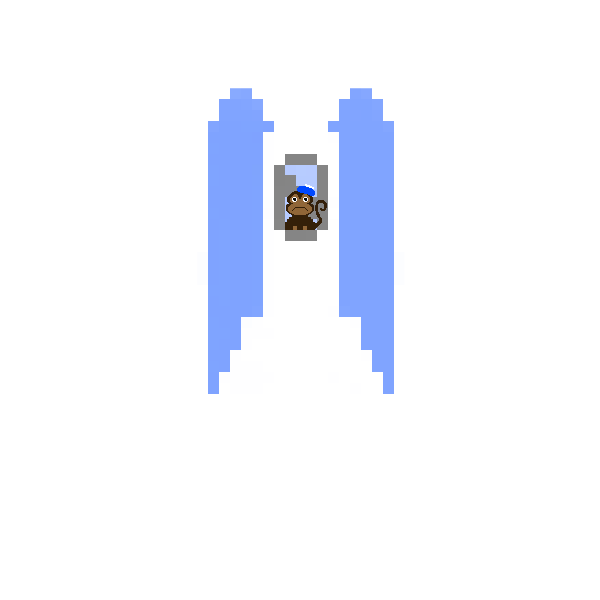
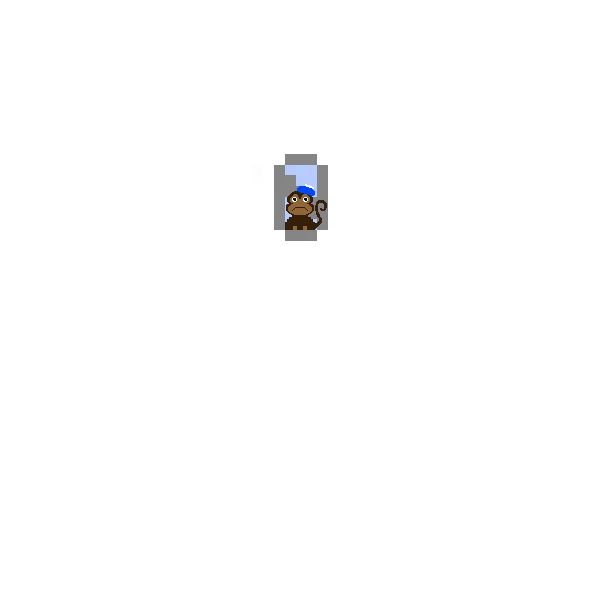
moug us

Changed region(s): [[0.33, 0.12, 0.45, 0.66], [0.54, 0.15, 0.66, 0.66]]

diff --git a/hangman.js b/hangman.js
@@ -92,113 +92,92 @@ window.onload = function () {
     drawArray[drawMe]();
   }
 
-/*
-  var imgArray = new Array();
-var x=0;
-var livesLost=0;
-
-if (level==1)
-{
-  for (let step =1; step<=14; step++) {
-    imgArray[step-1]=new Image();
-    imgArray[step-1].src='img_'+14-step+'.png'
-  }
-}
-else
-{
-  for (let step=1; step<=10; step++){
-    imgArray[step-1]=new Image();
-    imgArray[step-1].src='m_img_'+10-step+'.png';
-  }
-}
-
- display = function(){
-   context.clearRect(0,0,200,200);
-   imgArray[lives];
-  }
-
-
-
- // Hangman
-canvas =  function(){
-
-  rocketShip = document.getElementById("rocket");
-  context = rocketShip.getContext('2d');
-  context.beginPath();
-  context.strokeStyle = "#fff";
-  context.lineWidth = 2;
-};
-
-draw = function($pathFromx, $pathFromy, $pathTox, $pathToy) {
-
-  context.moveTo($pathFromx, $pathFromy);
-  context.lineTo($pathTox, $pathToy);
-  context.stroke();
-}
-*/
-
-   // Hangman
+   // Rocket Hangman
   canvas =  function(){
 
-    rocketShip = document.getElementById("rocket");
-    context = rocketShip.getContext('2d');
-    context.beginPath();
-    context.strokeStyle = "#fff";
-    context.lineWidth = 2;
+    canvas = document.getElementById("rocket");
+    context = canvas.getContext('2d');
+    image = new Image(600, 600); // Using optional size for image
+    console.log("change request");
+    if(level === 0){
+      imgStr = "img/img_";
+      console.log("no monk");
+    }
+    if(level === 2){
+      imgStr = "img/img_m_";
+    }
   };
 
-    head = function(){
-      rocketShip = document.getElementById("rocket");
-      context = rocketShip.getContext('2d');
-      context.beginPath();
-      context.arc(60, 25, 10, 0, Math.PI*2, true);
-      context.stroke();
-    }
-
-  draw = function($pathFromx, $pathFromy, $pathTox, $pathToy) {
-
-    context.moveTo($pathFromx, $pathFromy);
-    context.lineTo($pathTox, $pathToy);
-    context.stroke();
-}
-
-   frame1 = function() {
-     draw (0, 150, 150, 150);
+   pristene = function() {
+     image.src = imgStr + "0.png";
+     context.drawImage(image, 0, 0);
+     console.log("1");
    };
 
-   frame2 = function() {
-     draw (10, 0, 10, 600);
+   smudged = function() {
+     image.src = imgStr + "1.png";
+     context.drawImage(image, 0, 0);
+     console.log("2");
    };
 
-   frame3 = function() {
-     draw (0, 5, 70, 5);
+   dented = function() {
+     image.src = imgStr + "2.png";
+     context.drawImage(image, 0, 0);
+     console.log("3");
    };
 
-   frame4 = function() {
-     draw (60, 5, 60, 15);
+   scratched = function() {
+     image.src = imgStr + "3.png";
+     context.drawImage(image, 0, 0);
+     console.log("4");
    };
 
-   torso = function() {
-     draw (60, 36, 60, 70);
+   chipped = function() {
+     image.src = imgStr + "4.png";
+     context.drawImage(image, 0, 0);
    };
 
-   rightArm = function() {
-     draw (60, 46, 100, 50);
+   damaged = function() {
+     image.src = imgStr + "5.png";
+     context.drawImage(image, 0, 0);
    };
 
-   leftArm = function() {
-     draw (60, 46, 20, 50);
+   tarnished = function() {
+     image.src = imgStr + "6.png";
+     context.drawImage(image, 0, 0);
    };
 
-   rightLeg = function() {
-     draw (60, 70, 100, 100);
+   ruined = function() {
+     image.src = imgStr + "7.png";
+     context.drawImage(image, 0, 0);
    };
 
-   leftLeg = function() {
-     draw (60, 70, 20, 100);
+   explode = function() {
+     image.src = imgStr + "8.png";
+     context.drawImage(image, 0, 0);
    };
 
-  drawArray = [rightLeg, leftLeg, rightArm, leftArm,  torso,  head, frame4, frame3, frame2, frame1];
+   norm9 = function() {
+     image.src = imgStr + "9.png";
+     context.drawImage(image, 0, 0);
+   };
+
+   norm10 = function() {
+     image.src = imgStr + "10.png";
+     context.drawImage(image, 0, 0);
+   };
+
+   norm11 = function() {
+     image.src = imgStr + "11.png";
+     context.drawImage(image, 0, 0);
+   };
+
+   normExplode = function() {
+     image.src = imgStr + "12.png";
+     context.drawImage(image, 0, 0);
+   };
+
+  drawArray = [pristene, smudged, dented, scratched,  chipped,  damaged, tarnished, ruined, explode, norm9, norm10, norm11, normExplode];
 
   // OnClick Function
    check = function () {
@@ -211,7 +190,6 @@ draw = function($pathFromx, $pathFromy, $pathTox, $pathToy) {
         if (word[i] === guess) {
           guesses[i].innerHTML = guess;
           counter += 1;
-          console.log("loop")
           }
           if(lives>0){
             healthbar.innerHTML = "<div id='indicator' style='width:"+((lives)/(12-level))*100+"%;'></div>";
@@ -219,13 +197,11 @@ draw = function($pathFromx, $pathFromy, $pathTox, $pathToy) {
           else{
             healthbar.innerHTML = "<div id='indicator' style='width:0%;transition: width 2s;'></div>";
         }
-        console.log("after loop")
         this.innerHTML = "<span style='background: white;color: #2F4F4F;'></span>";
       }
       var j = (word.indexOf(guess));
       if (j === -1) {
         lives -= 1;
-        console.log("life down")
         comments();
         animate();
         if(lives>0){

diff --git a/index.html b/index.html
@@ -35,17 +35,17 @@
       <div class="row">
         <div class="col">
           <h3>Normal Rocket</h3>
-          <img src="img\"/>
+          <img src="img/img_0.png"/>
           <p>The starter rocket. Fairly stable with just enough power to get you up there.</p>
         </div>
         <div class="col">
           <h3>Window Rocket</h3>
-          <img src="img\"/>
+          <img src="img/"/>
           <p>Makes the rocket more fragile but with a higher multiplier.</p>
         </div>
         <div class="col">
           <h3>Monkey Rocket</h3>
-          <img src="img\"/>
+          <img src="img/m_img_0.png"/>
           <p>Now your rocket has a friend! Far more fragile, but with an even higher multiplier!</p>
         </div>
       </div>
